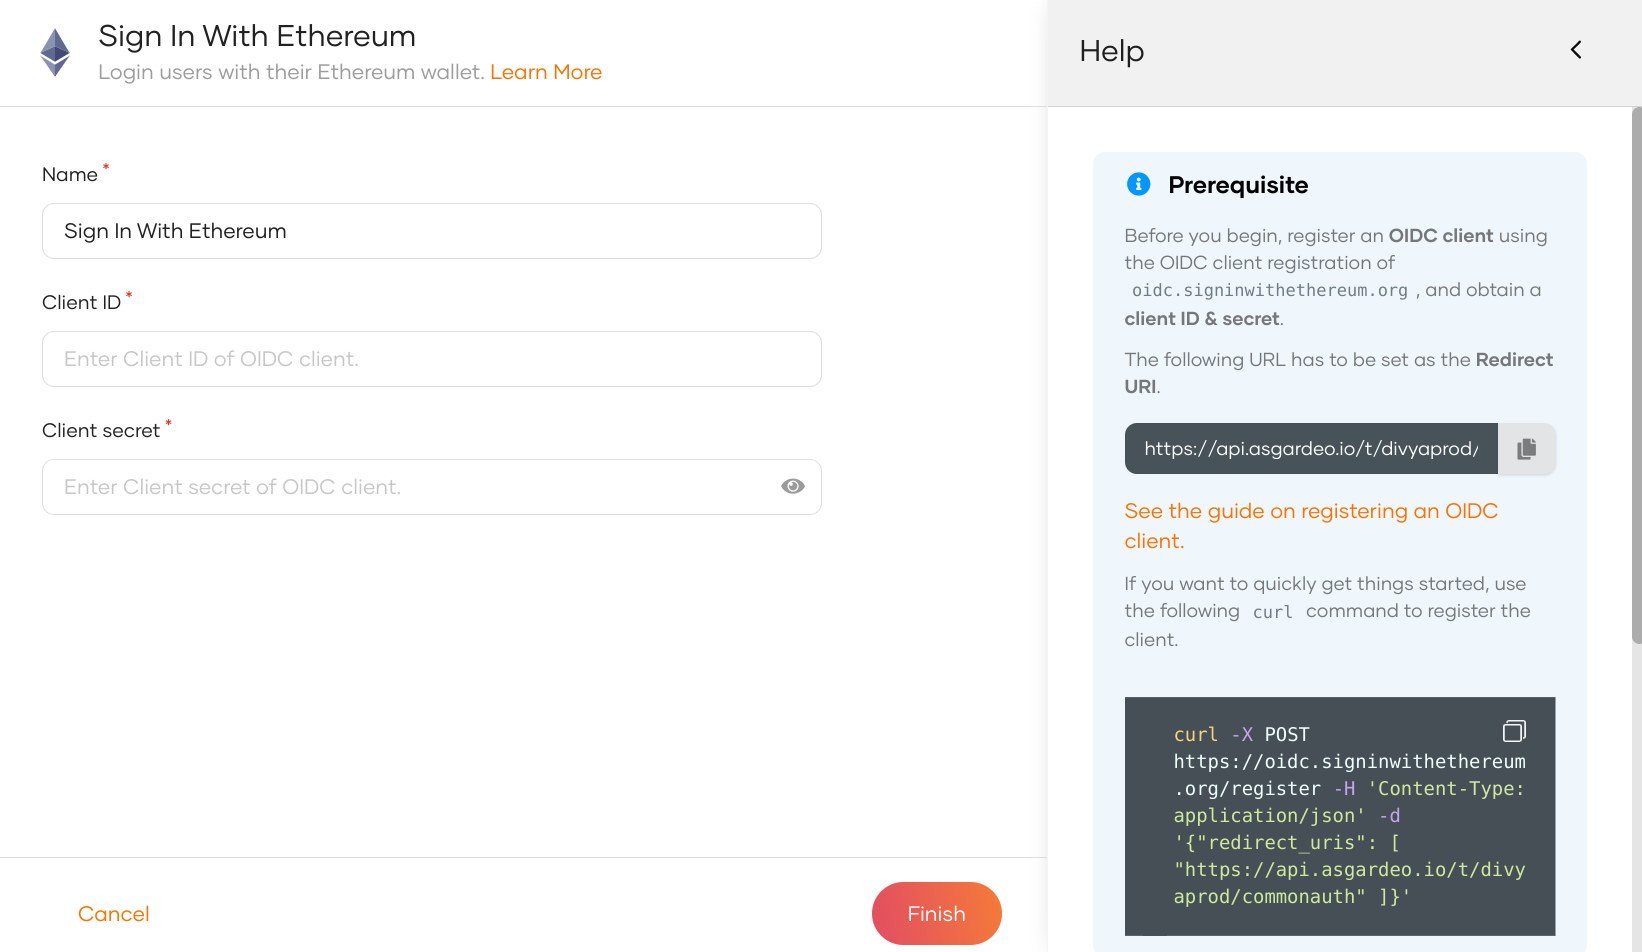
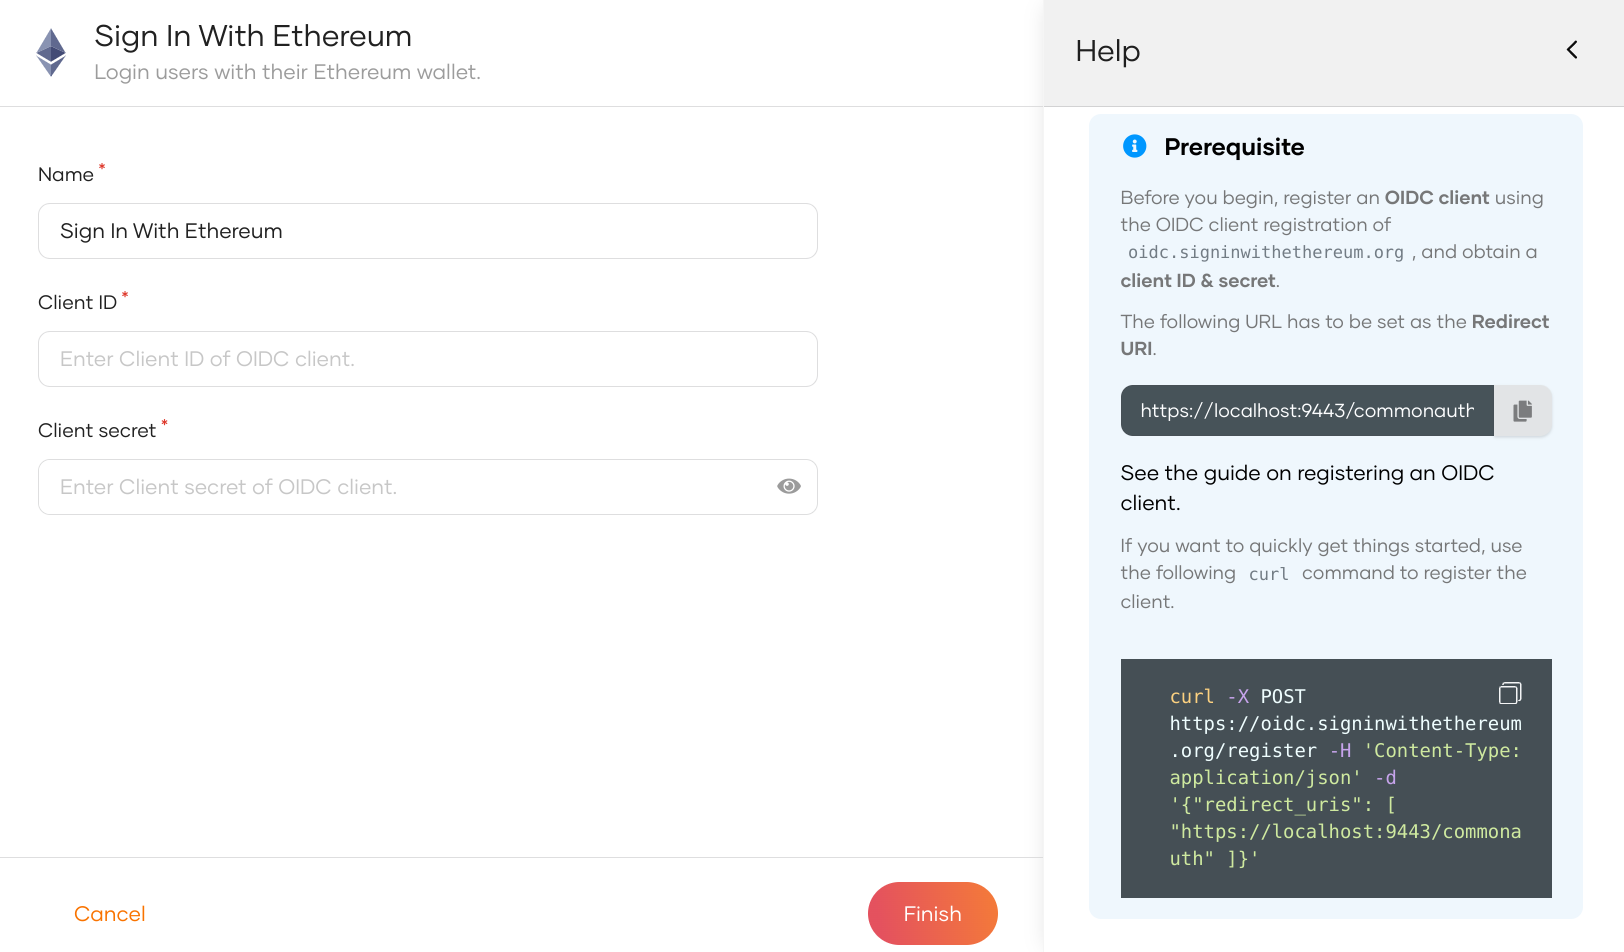
siwe

diff --git a/en/includes/guides/authentication/decentralized-login/sign-in-with-ethereum.md b/en/includes/guides/authentication/decentralized-login/sign-in-with-ethereum.md
@@ -19,7 +19,7 @@ You need to register {{ product_name }} as an OIDC client application in `oidc.s
 
     ```bash
     curl -X POST https://oidc.signinwithethereum.org/register
-    -H 'Content-Type: application/json' -d  '{"redirect_uris": ["https://api.asgardeo.io/t/{organization_name}/commonauth"]}'
+    -H 'Content-Type: application/json' -d  '{"redirect_uris": ["{{ product_url_format }}/commonauth"]}'
     ```
 
 2. Take note of the `client_id` and `client_secret` returned from the response.
@@ -32,7 +32,7 @@ You need to register {{ product_name }} as an OIDC client application in `oidc.s
         "client_secret": "{secret}",
         "registration_access_token": "{access_token}",
         "registration_client_uri": "https://oidc.signinwithethereum.org/client/9b49de48-d198-47e7-afff-7ee26cbcbc95",
-        "redirect_uris": ["https://api.asgardeo.io/t/<organization_name>/commonauth"]
+        "redirect_uris": ["{{ product_url_format }}/commonauth"]
     }
     ```
 
@@ -44,7 +44,7 @@ Follow the steps below to register the **Sign-In With Ethereum** IdP in {{ produ
 2. Click **Create Connection** and select **Sign-In With Ethereum**.
 3. Enter the following details of the Sign-In With Ethereum identity provider and click **Finish**:
 
-    ![Add Sign-In With Ethereum IDP in {{ product_name }}]({{base_path}}/assets/img/guides/idp/siwe-idp/add-siwe-idp.png)
+    ![Add Sign-In With Ethereum IDP in {{ product_name }}]({{base_path}}/assets/img/guides/idp/siwe-idp/add-siwe-idp.png){: style="display: block; margin: 0 auto; border: 0.3px solid lightgrey;"}
 
     <table>
       <tr>
@@ -99,7 +99,7 @@ The following guide shows you how to enable **Sign-In With Ethereum** in an appl
         
         3. From the list of connections that appear, select the **Sign-In With Ethereum** connection that you created and click **Add**.
 
-            ![Add Sign-In With Ethereum login in Asgardeo]({{base_path}}/assets/img/guides/idp/siwe-idp/add-siwe-federation-with-basic.png)
+            ![Add Sign-In With Ethereum login in Asgardeo]({{base_path}}/assets/img/guides/idp/siwe-idp/add-siwe-federation-with-basic.png){: style="display: block; margin: 0 auto; border: 0.3px solid lightgrey;"}
 
     === "Visual Editor"
         To add enable **Sign-In With Ethereum** using the Visual Editor:
@@ -108,7 +108,7 @@ The following guide shows you how to enable **Sign-In With Ethereum** in an appl
 
         2. Click on `+ Add Sign In Option` to add a new authenticator to the same step and select the **Sign-In With Ethereum** connection that you created
 
-            ![Enable sign-in with Ethereum in Asgardeo using the Visual Editor]({{base_path}}/assets/img/guides/idp/siwe-idp/add-siwe-with-visual-editor.png){: width="450" style="display: block; margin: 0 auto;"}
+            ![Enable sign-in with Ethereum in Asgardeo using the Visual Editor]({{base_path}}/assets/img/guides/idp/siwe-idp/add-siwe-with-visual-editor.png){: width="450" style="display: block; margin: 0 auto; border: 0.3px solid lightgrey;"}
 
     ---
 
@@ -125,19 +125,19 @@ Follow the steps given below.
     !!! note
         You will be redirected to the login interface of **Sign-In With Ethereum**.
 
-    ![Sign-In With Ethereum on {{ product_name }}]({{base_path}}/assets/img/guides/idp/siwe-idp/siwe-option.png){: width=300"}
+    ![Sign-In With Ethereum on {{ product_name }}]({{base_path}}/assets/img/guides/idp/siwe-idp/siwe-option.png){: width="300" style="border: 0.3px solid lightgrey;"}
 
 4. Click **Sign-In With Ethereum** again to log in.
 
-    ![Sign-In With Ethereum's Login Interface]({{base_path}}/assets/img/guides/idp/siwe-idp/siwe-login-interface.png){: width=500"}
+    ![Sign-In With Ethereum's Login Interface]({{base_path}}/assets/img/guides/idp/siwe-idp/siwe-login-interface.png){: width="500" style="border: 0.3px solid lightgrey;"}
 
 5. Select a preferred Ethereum wallet.
 
-    ![Sign-In With Ethereum wallet selection]({{base_path}}/assets/img/guides/idp/siwe-idp/siwe-wallet-selection.png){: width=500"}
+    ![Sign-In With Ethereum wallet selection]({{base_path}}/assets/img/guides/idp/siwe-idp/siwe-wallet-selection.png){: width="500" style="border: 0.3px solid lightgrey;"}
 
 6. Sign the login request to log in to the application.
 
-    ![Sign-In With Ethereum request signing]({{base_path}}/assets/img/guides/idp/siwe-idp/siwe-request-signing.png){: width=300"}
+    ![Sign-In With Ethereum request signing]({{base_path}}/assets/img/guides/idp/siwe-idp/siwe-request-signing.png){: width="300" style="border: 0.3px solid lightgrey;"}
 
 ## Add groups to the connection
 

diff --git a/en/includes/guides/authentication/enterprise-login/add-saml-idp-login.md b/en/includes/guides/authentication/enterprise-login/add-saml-idp-login.md
@@ -12,7 +12,7 @@ You need to register {{ product_name }} as a SAML application in the external id
 You can use the following URL as the **Assertion Consumer Service URL** (also known as callback URL/ redirect URL/ ACS URL) in the application that represents {{ product_name }}.
 
 ```bash 
-https://api.asgardeo.io/t/<organization_name>/commonauth
+{{ product_url_format }}/commonauth
 ```
 
 After you register the app, you should get the required configurations, as explained below.

diff --git a/en/identity-server/7.0.0/docs/guides/authentication/conditional-auth/add-authentications-based-on-api-calls.md b/en/identity-server/7.0.0/docs/guides/authentication/conditional-auth/add-authentications-based-on-api-calls.md
@@ -1,2 +1,5 @@
 {% set product_name = "WSO2 Identity Server" %}
+{% set product_url = "https://localhost:9443" %}
+{% set product_url_format = "https://localhost:9443" %}
+{% set product_url_sample = "https://localhost:9443" %}
 {% include "../../../../../../includes/guides/authentication/conditional-auth/add-authentications-based-on-api-calls.md" %}

diff --git a/en/includes/guides/authentication/enterprise-login/add-oidc-idp-login.md b/en/includes/guides/authentication/enterprise-login/add-oidc-idp-login.md
@@ -11,7 +11,7 @@ You need to register an OpenID Connect application with the external identity pr
 You can use the following URL as the **callbackURL** of the application.
 
 ```bash 
-https://api.asgardeo.io/t/<organization_name>/commonauth
+{{ product_url_format }}/commonauth
 ```
 Once you register an application, you will receive the following:
 

diff --git a/en/identity-server/7.0.0/docs/guides/authentication/conditional-auth/group-based-template-access-control.md b/en/identity-server/7.0.0/docs/guides/authentication/conditional-auth/group-based-template-access-control.md
@@ -1,2 +1,5 @@
 {% set product_name = "WSO2 Identity Server" %}
+{% set product_url = "https://localhost:9443" %}
+{% set product_url_format = "https://localhost:9443" %}
+{% set product_url_sample = "https://localhost:9443" %}
 {% include "../../../../../../includes/guides/authentication/conditional-auth/group-based-template-access-control.md" %}

diff --git a/en/identity-server/7.0.0/docs/guides/authentication/conditional-auth/sign-in-option-based-template.md b/en/identity-server/7.0.0/docs/guides/authentication/conditional-auth/sign-in-option-based-template.md
@@ -1,2 +1,5 @@
 {% set product_name = "WSO2 Identity Server" %}
+{% set product_url = "https://localhost:9443" %}
+{% set product_url_format = "https://localhost:9443" %}
+{% set product_url_sample = "https://localhost:9443" %}
 {% include "../../../../../../includes/guides/authentication/conditional-auth/sign-in-option-based-template.md" %}

diff --git a/en/identity-server/7.0.0/docs/guides/authentication/conditional-auth/configure-conditional-auth.md b/en/identity-server/7.0.0/docs/guides/authentication/conditional-auth/configure-conditional-auth.md
@@ -1,2 +1,5 @@
 {% set product_name = "WSO2 Identity Server" %}
+{% set product_url = "https://localhost:9443" %}
+{% set product_url_format = "https://localhost:9443" %}
+{% set product_url_sample = "https://localhost:9443" %}
 {% include "../../../../../../includes/guides/authentication/conditional-auth/configure-conditional-auth.md" %}

diff --git a/en/identity-server/7.0.0/docs/guides/authentication/conditional-auth/new-device-based-template.md b/en/identity-server/7.0.0/docs/guides/authentication/conditional-auth/new-device-based-template.md
@@ -1,2 +1,5 @@
 {% set product_name = "WSO2 Identity Server" %}
+{% set product_url = "https://localhost:9443" %}
+{% set product_url_format = "https://localhost:9443" %}
+{% set product_url_sample = "https://localhost:9443" %}
 {% include "../../../../../../includes/guides/authentication/conditional-auth/new-device-based-template.md" %}

diff --git a/en/identity-server/7.0.0/docs/guides/authentication/decentralized-login/sign-in-with-ethereum.md b/en/identity-server/7.0.0/docs/guides/authentication/decentralized-login/sign-in-with-ethereum.md
@@ -1,2 +1,5 @@
 {% set product_name = "WSO2 Identity Server" %}
+{% set product_url = "https://localhost:9443" %}
+{% set product_url_format = "https://localhost:9443" %}
+{% set product_url_sample = "https://localhost:9443" %}
 {% include "../../../../../../includes/guides/authentication/decentralized-login/sign-in-with-ethereum.md" %}

diff --git a/en/identity-server/7.0.0/docs/guides/authentication/conditional-auth/user-age-based-template.md b/en/identity-server/7.0.0/docs/guides/authentication/conditional-auth/user-age-based-template.md
@@ -1,2 +1,5 @@
 {% set product_name = "WSO2 Identity Server" %}
+{% set product_url = "https://localhost:9443" %}
+{% set product_url_format = "https://localhost:9443" %}
+{% set product_url_sample = "https://localhost:9443" %}
 {% include "../../../../../../includes/guides/authentication/conditional-auth/user-age-based-template.md" %}

diff --git a/en/identity-server/7.0.0/docs/guides/authentication/conditional-auth/write-your-first-script.md b/en/identity-server/7.0.0/docs/guides/authentication/conditional-auth/write-your-first-script.md
@@ -1,2 +1,5 @@
 {% set product_name = "WSO2 Identity Server" %}
+{% set product_url = "https://localhost:9443" %}
+{% set product_url_format = "https://localhost:9443" %}
+{% set product_url_sample = "https://localhost:9443" %}
 {% include "../../../../../../includes/guides/authentication/conditional-auth/write-your-first-script.md" %}

diff --git a/en/identity-server/7.0.0/docs/guides/authentication/conditional-auth/group-based-template.md b/en/identity-server/7.0.0/docs/guides/authentication/conditional-auth/group-based-template.md
@@ -1,2 +1,5 @@
 {% set product_name = "WSO2 Identity Server" %}
+{% set product_url = "https://localhost:9443" %}
+{% set product_url_format = "https://localhost:9443" %}
+{% set product_url_sample = "https://localhost:9443" %}
 {% include "../../../../../../includes/guides/authentication/conditional-auth/group-based-template.md" %}
